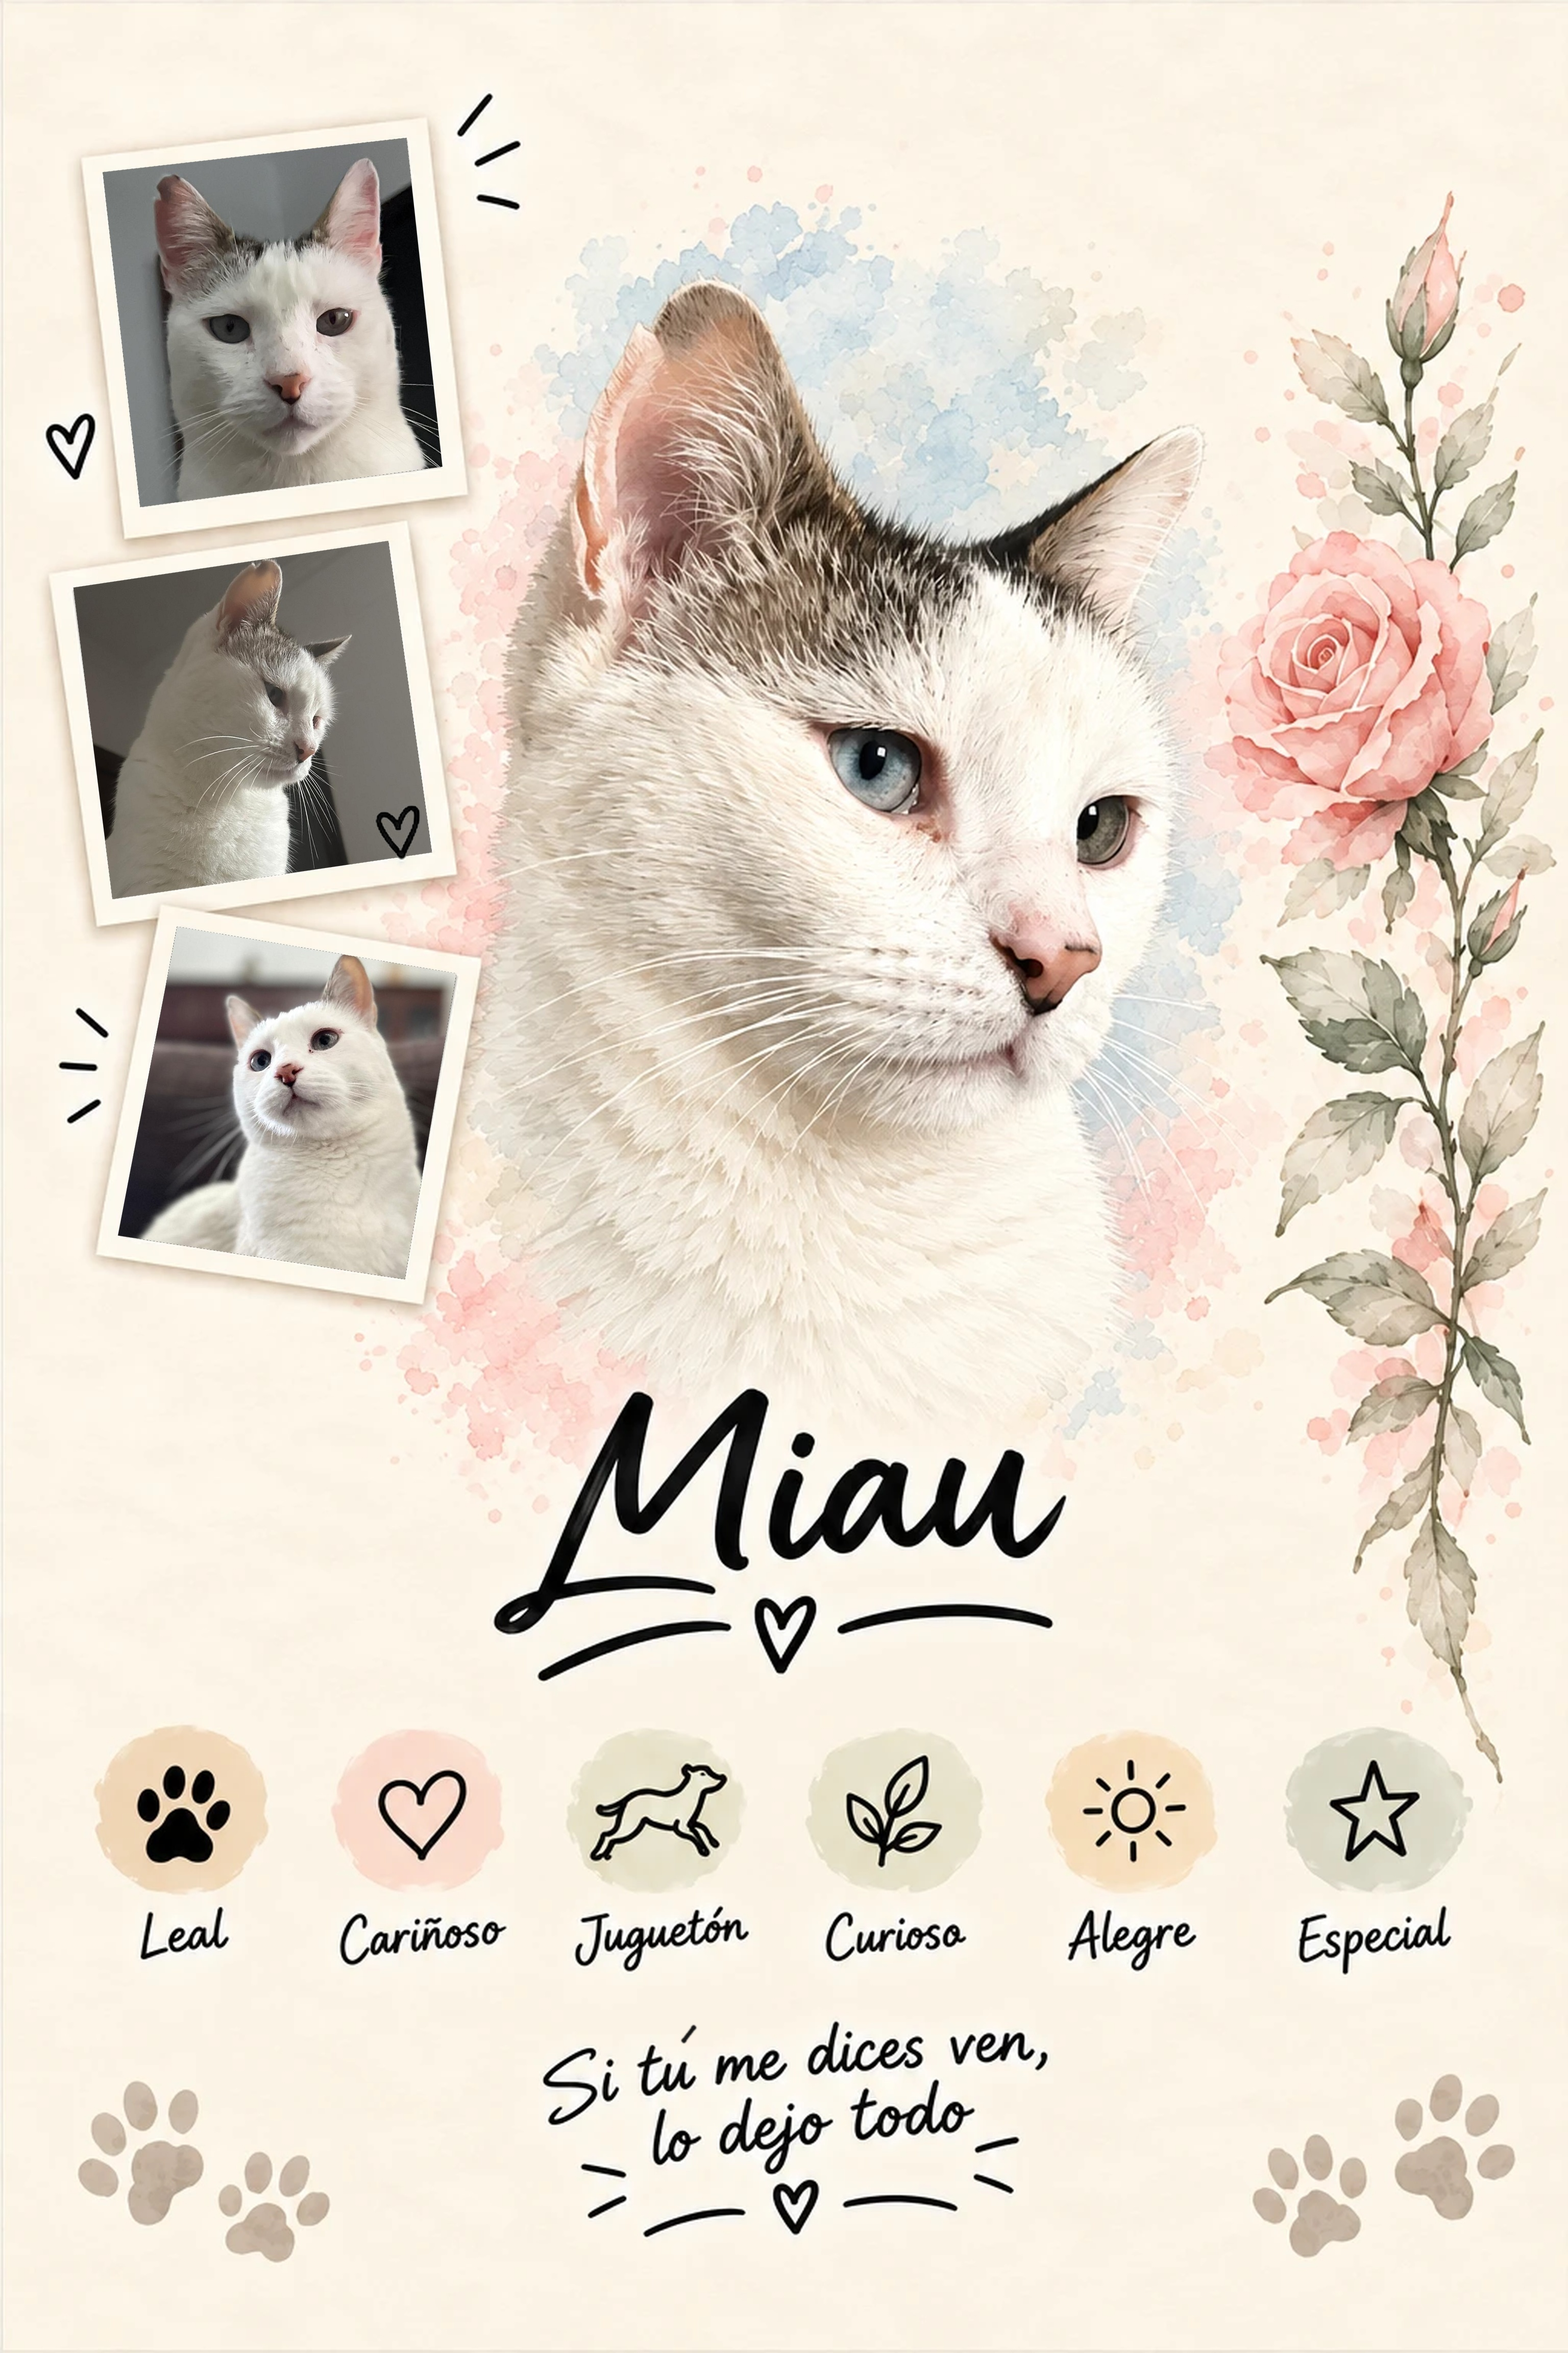
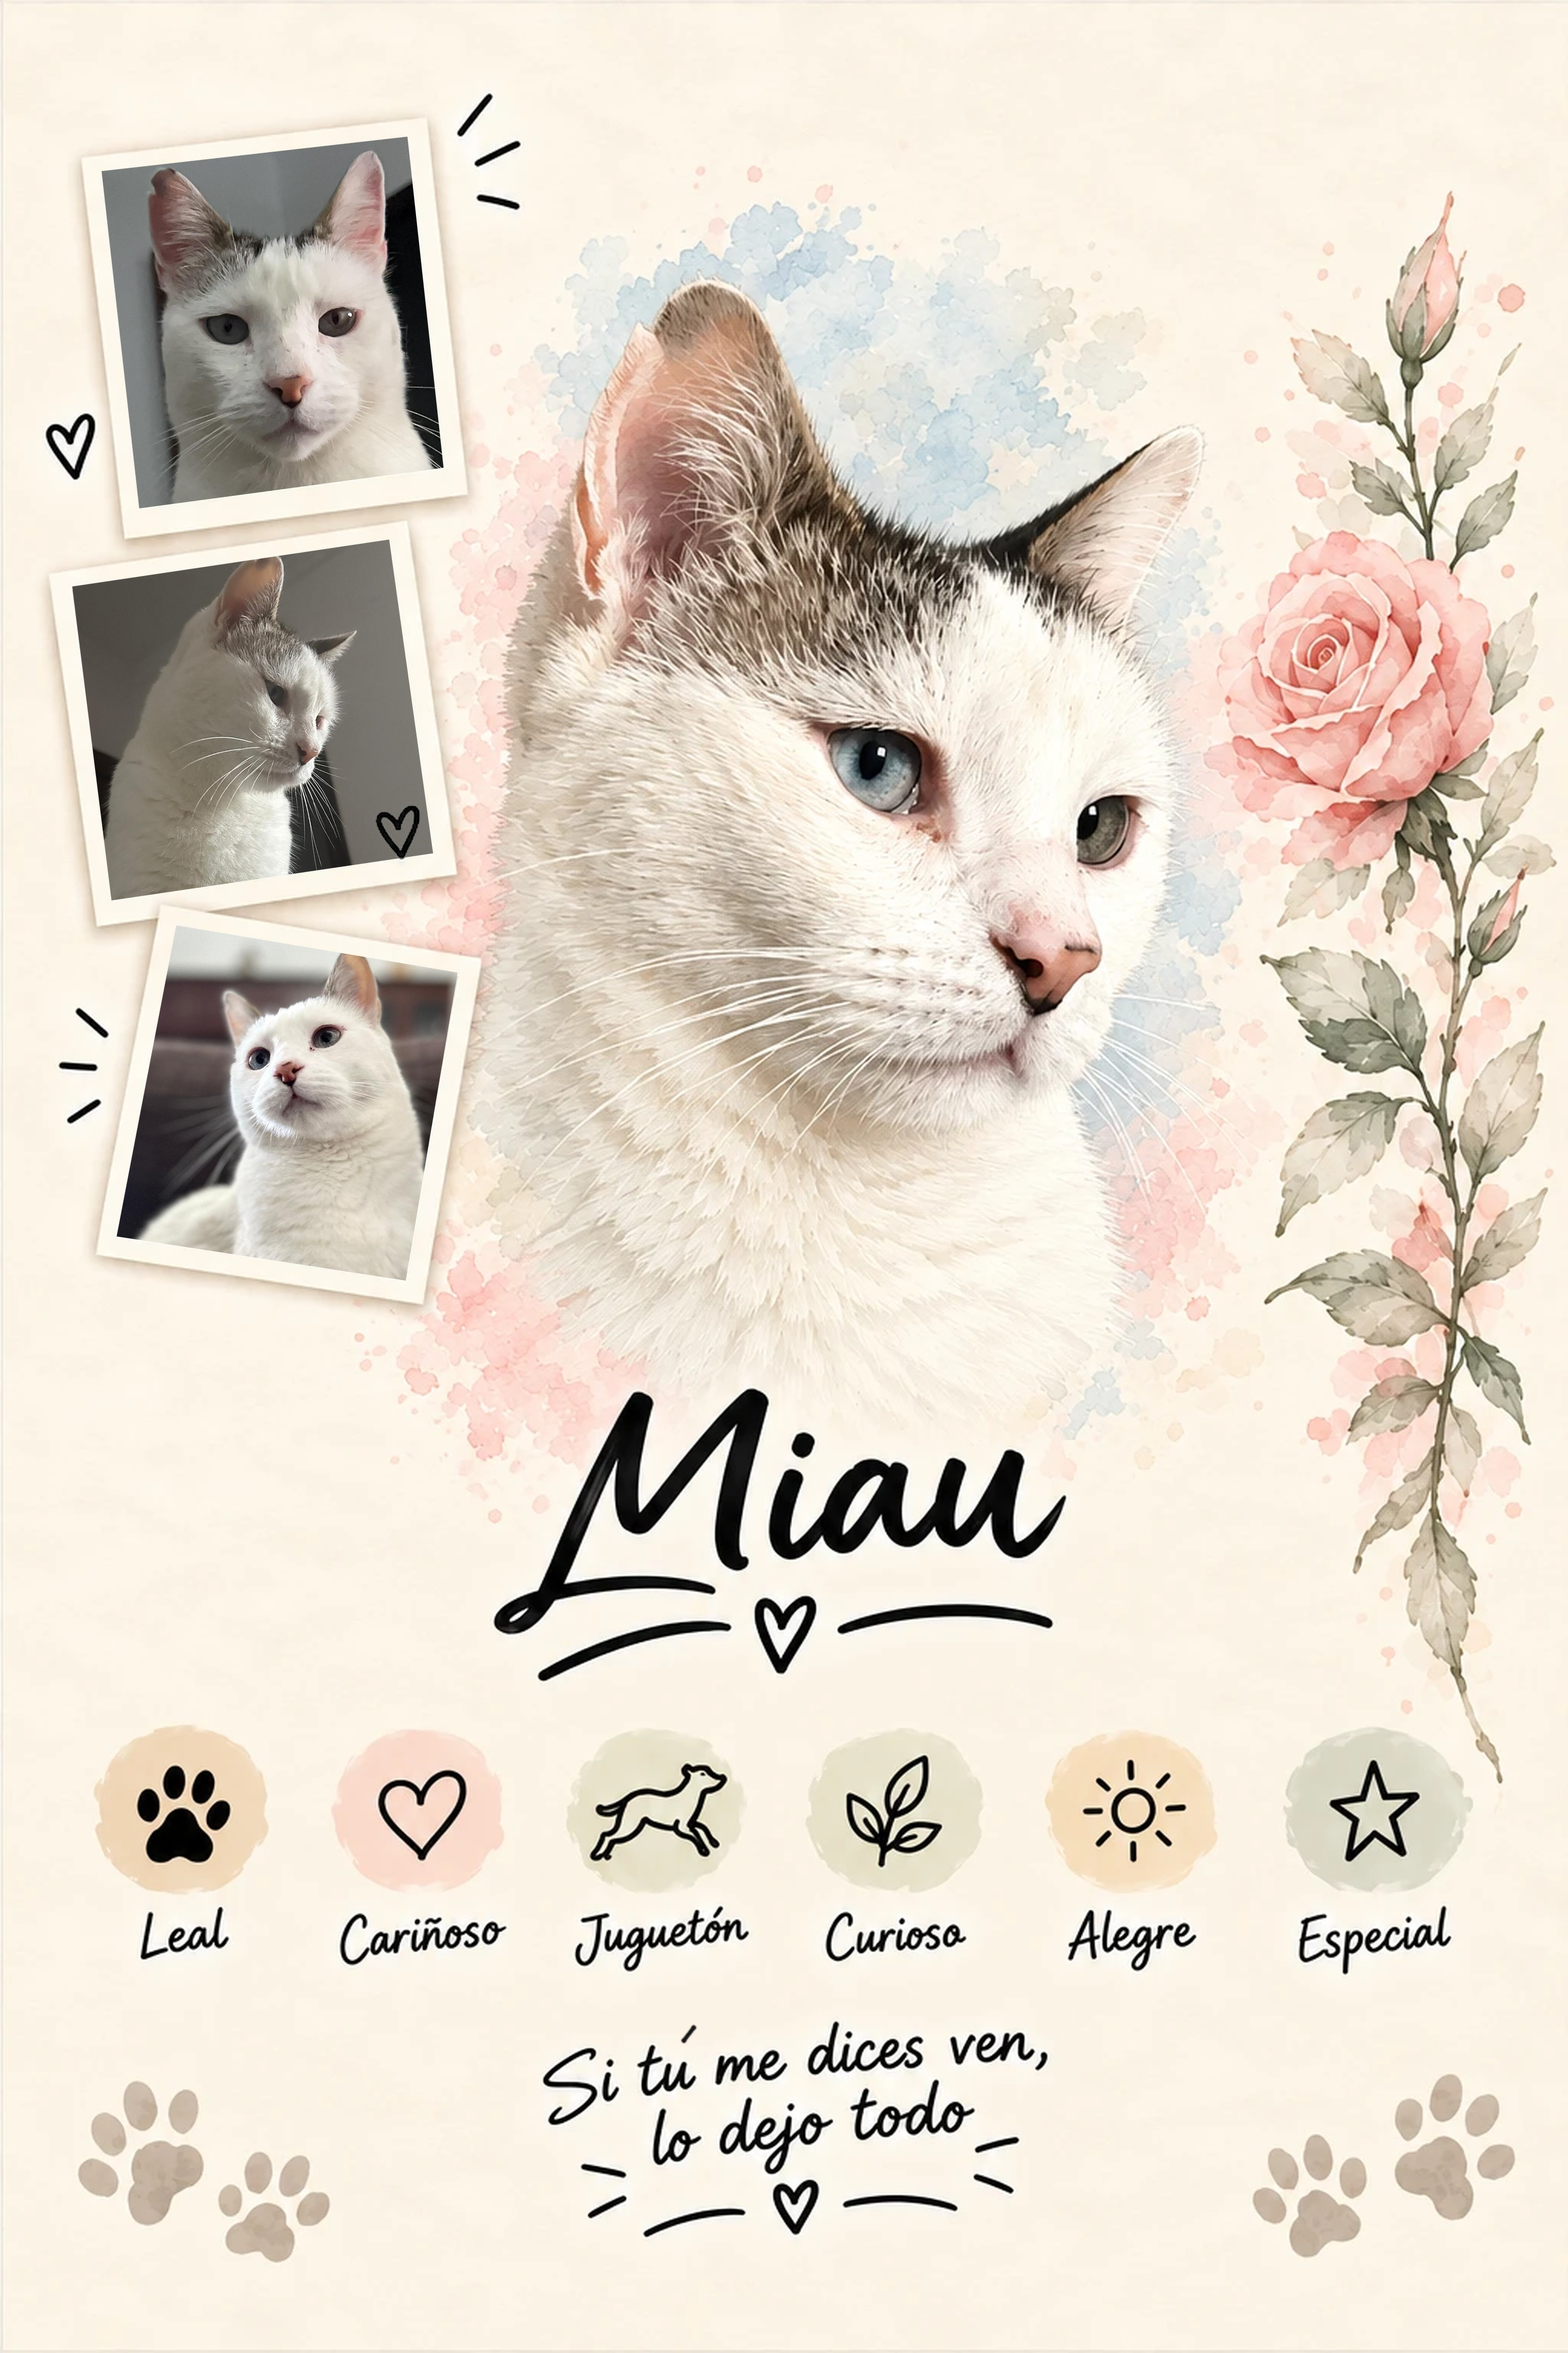
Polaroids: borde sin halo oscuro; retrato de Miau en Estilo Lavanda
Claude-Session: https://claude.ai/code/session_01EXxT3oYALMgVYQXs29BEaV

diff --git a/generador/polaroids.py b/generador/polaroids.py
@@ -59,14 +59,16 @@ def componer(diseno, salida, fotos):
     grande = base.resize((base.width * S, base.height * S), Image.LANCZOS)
     oscuro = Image.fromarray(((rgb.mean(2) < 80) * 255).astype(np.uint8)).resize(grande.size, Image.LANCZOS)
     for q, (ruta, fx, fy, zoom) in zip(quads, fotos):
-        # 2,5 px de margen hacia fuera para tapar el antialias del gris
+        # 3,5 px de margen hacia fuera para tapar el antialias del gris
         c = q.mean(0)
-        q = c + (q - c) * (1 + 2.5 / np.linalg.norm(q - c, axis=1, keepdims=True))
+        q = c + (q - c) * (1 + 3.5 / np.linalg.norm(q - c, axis=1, keepdims=True))
         Q = q * S
         w = np.linalg.norm(Q[1] - Q[0])
         h = np.linalg.norm(Q[3] - Q[0])
         foto = recorte(ImageOps.exif_transpose(Image.open(ruta)).convert('RGB'), w / h, fx, fy, zoom)
-        src = [(0, 0), (foto.width, 0), (foto.width, foto.height), (0, foto.height)]
+        # la foto se proyecta un poco más grande que el hueco: así el borde no mezcla con negro
+        m = 0.02 * foto.width
+        src = [(m, m), (foto.width - m, m), (foto.width - m, foto.height - m), (m, foto.height - m)]
         capa = foto.transform(grande.size, Image.PERSPECTIVE, perspectiva(Q, src), Image.BICUBIC)
         # máscara con antialias (dibujada a 4× y reducida) para que el borde no quede dentado
         A4 = 4
